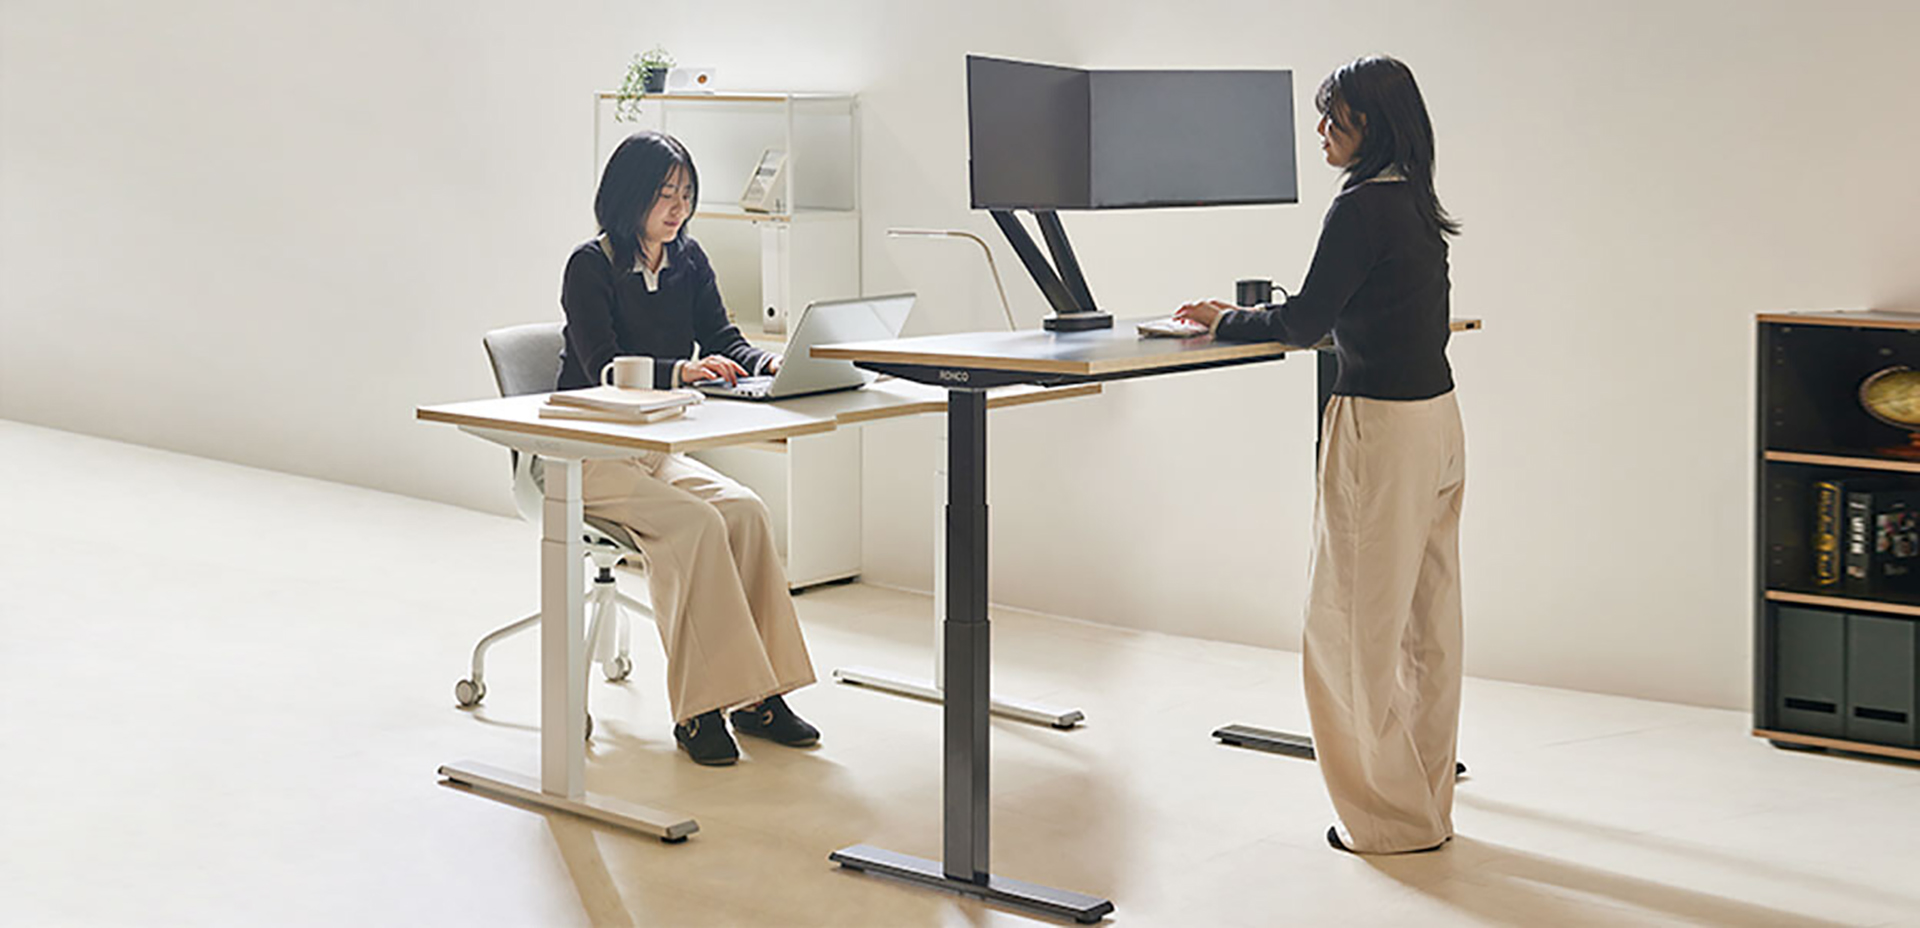
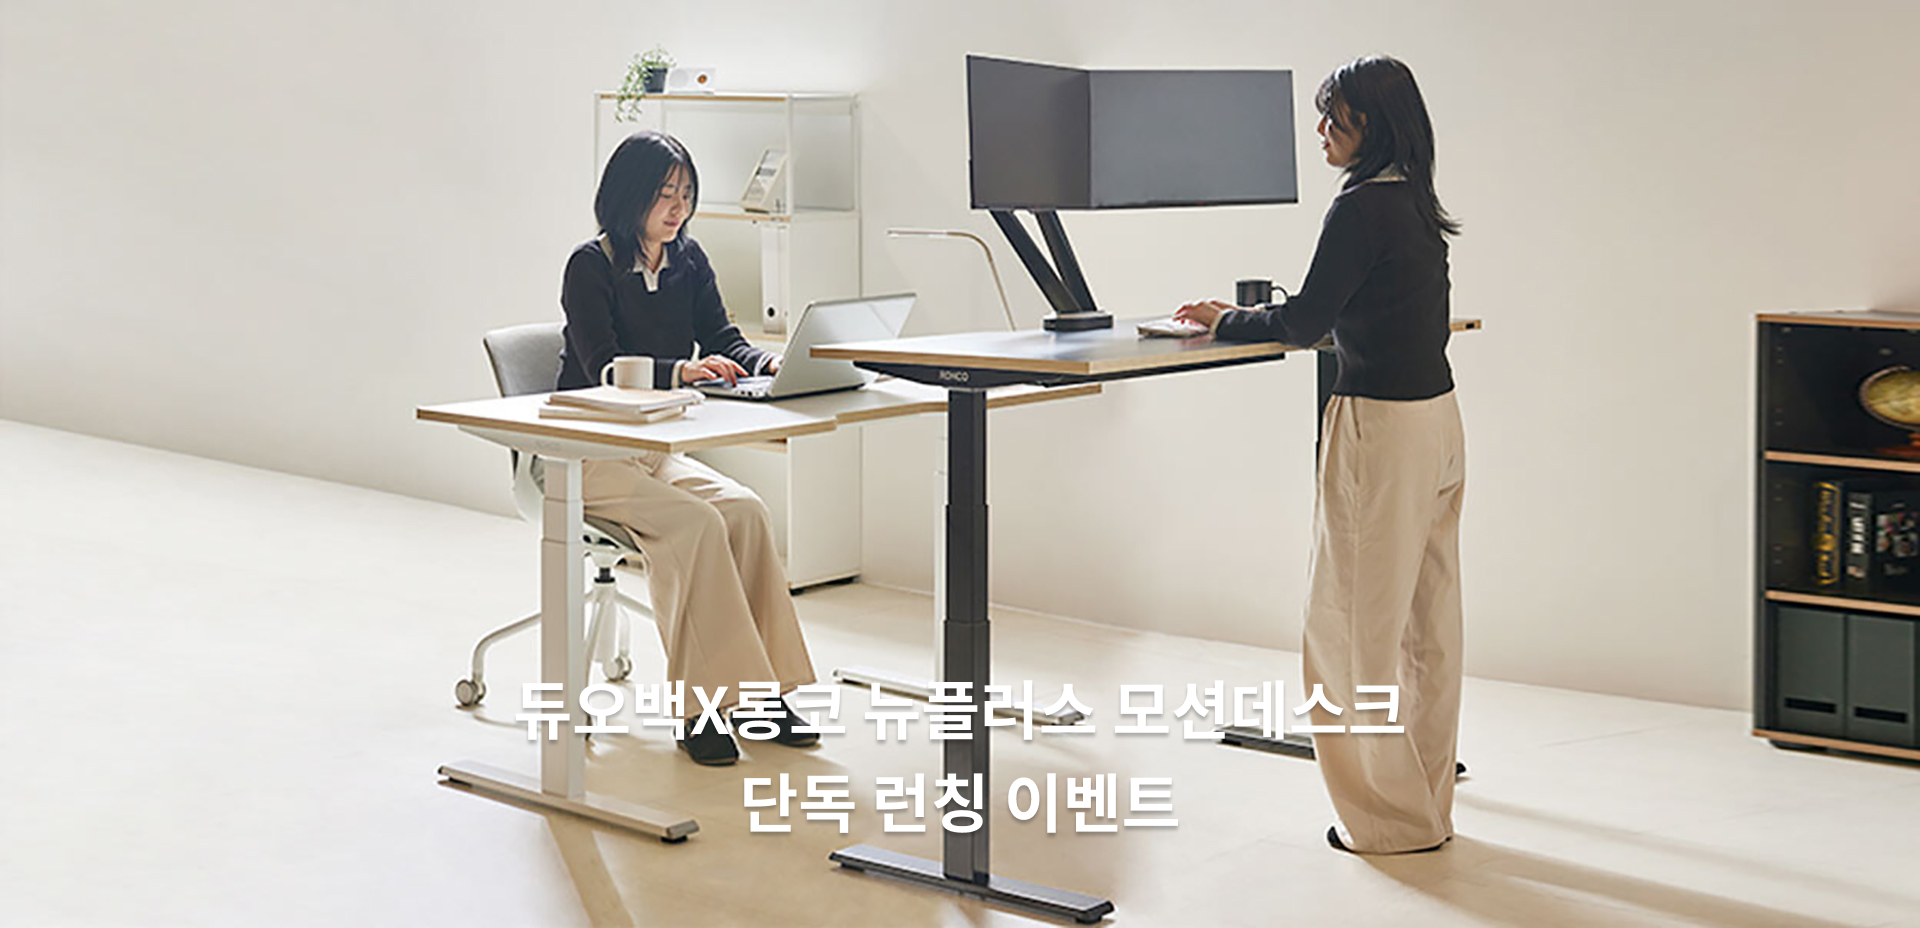
0812

Changed region(s): [[0.2812, 0.7188, 0.75, 0.9062]]

diff --git a/90_test/스마트문화앱UX설계_마유미/index.html b/90_test/스마트문화앱UX설계_마유미/index.html
@@ -35,10 +35,16 @@
 
     <div id="slide">
         <ul>
-            <li><img src="./images/pc_banner_1692.jpg" alt="banner1"></li>
+            <li>
+                <img src="./images/pc_banner_1692.jpg" alt="banner1">
+                <p>듀오백X롱코 뉴플러스 모션데스크 단독 런칭 이벤트</p>
+            </li>
             <li><img src="./images/pc_banner_1739.jpg" alt="banner2"></li>
             <li><img src="./images/pc_banner_1753.jpg" alt="banner3"></li>
-            <li><img src="./images/pc_banner_1692.jpg" alt="banner1"></li>
+            <li>
+                <img src="./images/pc_banner_1692.jpg" alt="banner1">
+                <p>듀오백X롱코 뉴플러스 모션데스크 단독 런칭 이벤트</p>
+            </li>
         </ul>
     </div>
 
@@ -48,35 +54,35 @@
         <ul>
             <li>
                 <h3>좌판메쉬의자 일반베이스</h3>
-                <div><img src="./images/best_1.jpg" alt="의자1"></div>
+                <div><a href="#"><img src="./images/best_1.jpg" alt="의자1"></a></div>
             </li>
             <li>
                 <h3>좌판메쉬의자 일반베이스</h3>
-                <div><img src="./images/best_2.jpg" alt="의자2"></div>
+                <div><a href="#"><img src="./images/best_2.jpg" alt="의자2"></a></div>
             </li>
             <li>
                 <h3>좌판메쉬의자 일반베이스</h3>
-                <div><img src="./images/best_3.jpg" alt="의자3"></div>
+                <div><a href="#"><img src="./images/best_3.jpg" alt="의자3"></a></div>
             </li>
             <li>
                 <h3>좌판메쉬의자 일반베이스</h3>
-                <div><img src="./images/best_4.jpg" alt="의자4"></div>
+                <div><a href="#"><img src="./images/best_4.jpg" alt="의자4"></a></div>
             </li>
             <li>
                 <h3>풀메쉬 의자 일반베이스</h3>
-                <div><img src="./images/best_5.jpg" alt="의자5"></div>
+                <div><a href="#"><img src="./images/best_5.jpg" alt="의자5"></a></div>
             </li>
             <li>
                 <h3>풀메쉬 의자 일반베이스</h3>
-                <div><img src="./images/best_6.jpg" alt="의자6"></div>
+                <div><a href="#"><img src="./images/best_6.jpg" alt="의자6"></a></div>
             </li>
             <li>
                 <h3>사무용의자 풀메쉬</h3>
-                <div><img src="./images/best_7.jpg" alt="의자7"></div>
+                <div><a href="#"><img src="./images/best_7.jpg" alt="의자7"></a></div>
             </li>
             <li>
                 <h3>사무용의자 풀메쉬</h3>
-                <div><img src="./images/best_8.jpg" alt="의자8"></div>
+                <div><a href="#"><img src="./images/best_8.jpg" alt="의자8"></a></div>
             </li>
         </ul>
     </section>

diff --git a/90_test/스마트문화앱UX설계_마유미/css/style.css b/90_test/스마트문화앱UX설계_마유미/css/style.css
@@ -204,6 +204,13 @@ header .logo {
     width: 400%; 
     animation: slide 12s infinite;
 } 
+#slide>ul>li>p {
+    z-index: 99;
+    top: 50%;
+    right: 50%;
+    color: #fff;
+    font-size: 35px;
+}
 
 /* animation */
 @keyframes slide { 
